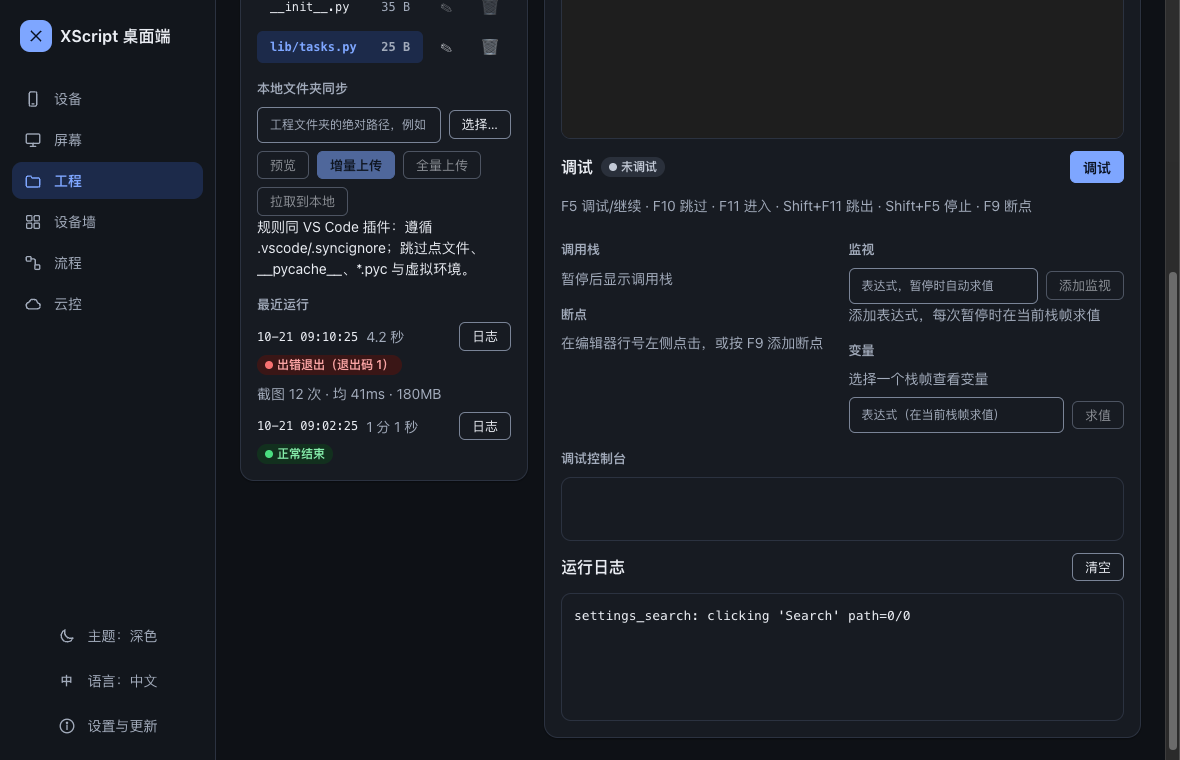
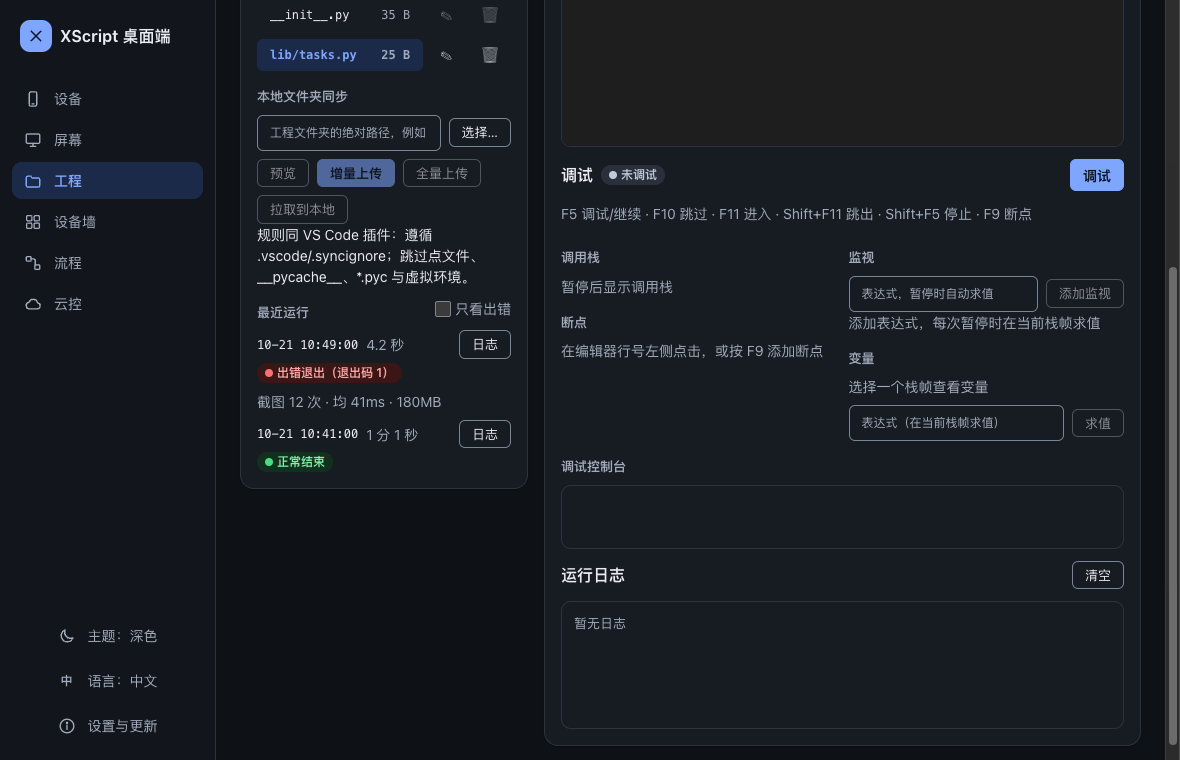
feat(desktop): failed-only filter for recent runs

diff --git a/desktop/frontend/src/components/RecentRuns.tsx b/desktop/frontend/src/components/RecentRuns.tsx
@@ -18,6 +18,7 @@ export function RecentRuns({ devId, project, refresh, onError }: { devId: string
   const [unsupported, setUnsupported] = useState(false);
   const [open, setOpen] = useState<number | null>(null);
   const [slice, setSlice] = useState<LogEntry[] | null>(null);
+  const [failedOnly, setFailedOnly] = useState(false);
 
   useEffect(() => {
     let live = true;
@@ -49,14 +50,24 @@ export function RecentRuns({ devId, project, refresh, onError }: { devId: string
   };
 
   if (runs === null) return null;
+  const shown = failedOnly ? runs.filter((r) => r.failed) : runs;
   return (
     <div className="recent-runs">
-      <h3 className="sub-head">{t.projects.recentRuns}</h3>
+      <div style={{ display: "flex", alignItems: "center", gap: "var(--sp-2)" }}>
+        <h3 className="sub-head grow">{t.projects.recentRuns}</h3>
+        {runs.some((r) => r.failed) && (
+          <label className="muted" style={{ display: "flex", alignItems: "center", gap: 4 }}>
+            <input type="checkbox" checked={failedOnly} onChange={(e) => setFailedOnly(e.target.checked)} />
+            {t.projects.runsFailedOnly}
+          </label>
+        )}
+      </div>
       {runs.length === 0 ? (
         <p className="muted">{unsupported ? t.projects.runsUnsupported : t.projects.noRuns}</p>
       ) : (
         <ul aria-label={t.projects.recentRuns} style={{ listStyle: "none", margin: 0, padding: 0, display: "grid", gap: "var(--sp-2)" }}>
-          {runs.map((r) => (
+          {shown.length === 0 && <li className="muted">{t.projects.noFailedRuns}</li>}
+          {shown.map((r) => (
             <li key={r.start} style={{ display: "grid", gap: 4 }}>
               <div style={{ display: "flex", gap: "var(--sp-2)", alignItems: "center" }}>
                 <span className="mono" style={{ whiteSpace: "nowrap" }}>{when(r.start)}</span>

diff --git a/desktop/frontend/src/strings.ts b/desktop/frontend/src/strings.ts
@@ -478,6 +478,8 @@ const zh = {
     noLogs: "暂无日志",
     recentRuns: "最近运行",
     noRuns: "还没有运行记录",
+    runsFailedOnly: "只看出错",
+    noFailedRuns: "最近没有出错的运行",
     runsUnsupported: "手机端 XScript 版本较旧，不提供运行历史",
     runLog: "日志",
     runLogGone: "这段日志已不在手机的日志缓冲区里",
@@ -1310,6 +1312,8 @@ const en: Strings = {
     noLogs: "No log yet",
     recentRuns: "Recent runs",
     noRuns: "No runs yet",
+    runsFailedOnly: "Failed only",
+    noFailedRuns: "No failed runs recently",
     runsUnsupported: "The XScript app on the phone is too old to report run history",
     runLog: "Log",
     runLogGone: "This part of the log is no longer in the phone's log buffer",

diff --git a/desktop/frontend/tests/recent-runs.test.tsx b/desktop/frontend/tests/recent-runs.test.tsx
@@ -60,4 +60,11 @@ describe("RecentRuns", () => {
     );
     expect(await screen.findByText("手机端 XScript 版本较旧，不提供运行历史")).toBeTruthy();
   });
+  it("filters to failed runs with the checkbox", async () => {
+    mount();
+    await screen.findByText("正常结束");
+    fireEvent.click(screen.getByRole("checkbox", { name: "只看出错" }));
+    expect(screen.queryByText("正常结束")).toBeNull();
+    expect(screen.getByText("出错退出（退出码 1）")).toBeTruthy();
+  });
 });

diff --git a/docs/使用手册.md b/docs/使用手册.md
@@ -569,7 +569,7 @@ yolo export model=runs/detect/train/weights/best.pt format=onnx imgsz=640
 
 ![桌面端工程页：搜索 ocr_click，结果按文件分组，点开 config.json 第 3 行](images/desktop-projects-search-light.png)
 
-**最近运行**：选中工程后，文件列表下方列出手机上记录的这个工程最近几次运行（来自手机的 `GET /projects/<名称>/runs`）：开始时间、用了多久、怎么结束的（出错的标红），脚本自己结束的运行还有截图次数、平均截图耗时和峰值内存。点 **日志** 展开那一次运行的输出；那段日志已被手机的日志缓冲区挤掉时会说明。每次运行结束后列表自动刷新。手机上的 XScript 版本较旧、没有这个接口时，这里会提示版本较旧。
+**最近运行**：选中工程后，文件列表下方列出手机上记录的这个工程最近几次运行（来自手机的 `GET /projects/<名称>/runs`）：开始时间、用了多久、怎么结束的（出错的标红），脚本自己结束的运行还有截图次数、平均截图耗时和峰值内存。点 **日志** 展开那一次运行的输出；那段日志已被手机的日志缓冲区挤掉时会说明。有出错的运行时标题右侧有「只看出错」，勾选后只列出错退出和进程意外退出的运行。每次运行结束后列表自动刷新。手机上的 XScript 版本较旧、没有这个接口时，这里会提示版本较旧。
 
 ![桌面端工程页：最近运行列出一次出错退出（截图 12 次 · 均 41ms · 180MB）和一次正常结束](images/desktop-recent-runs-light.png)
 
